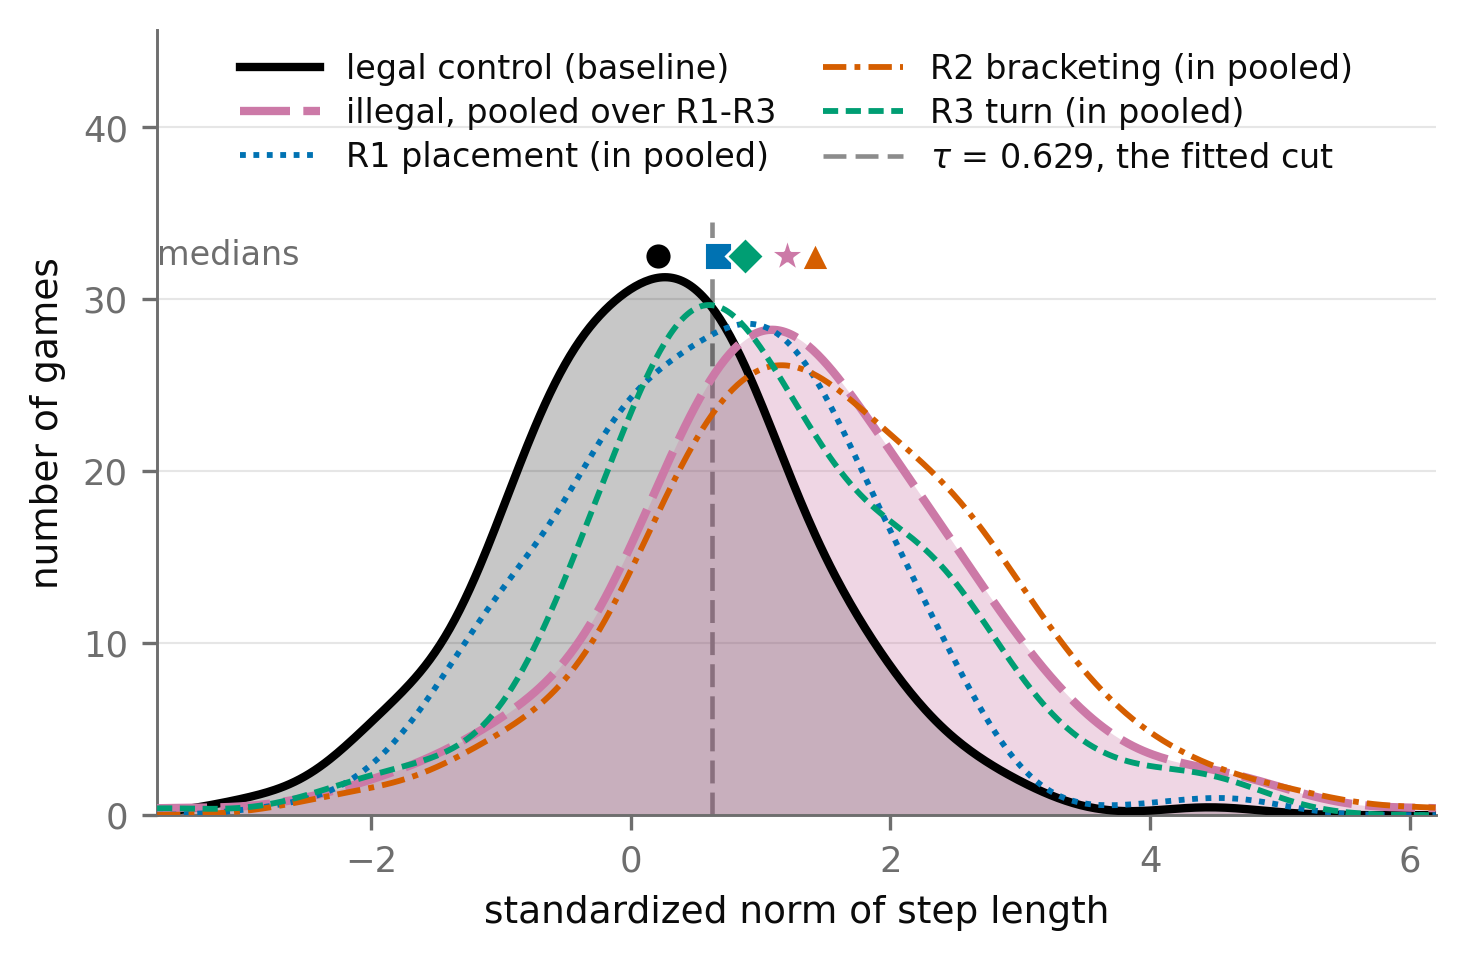
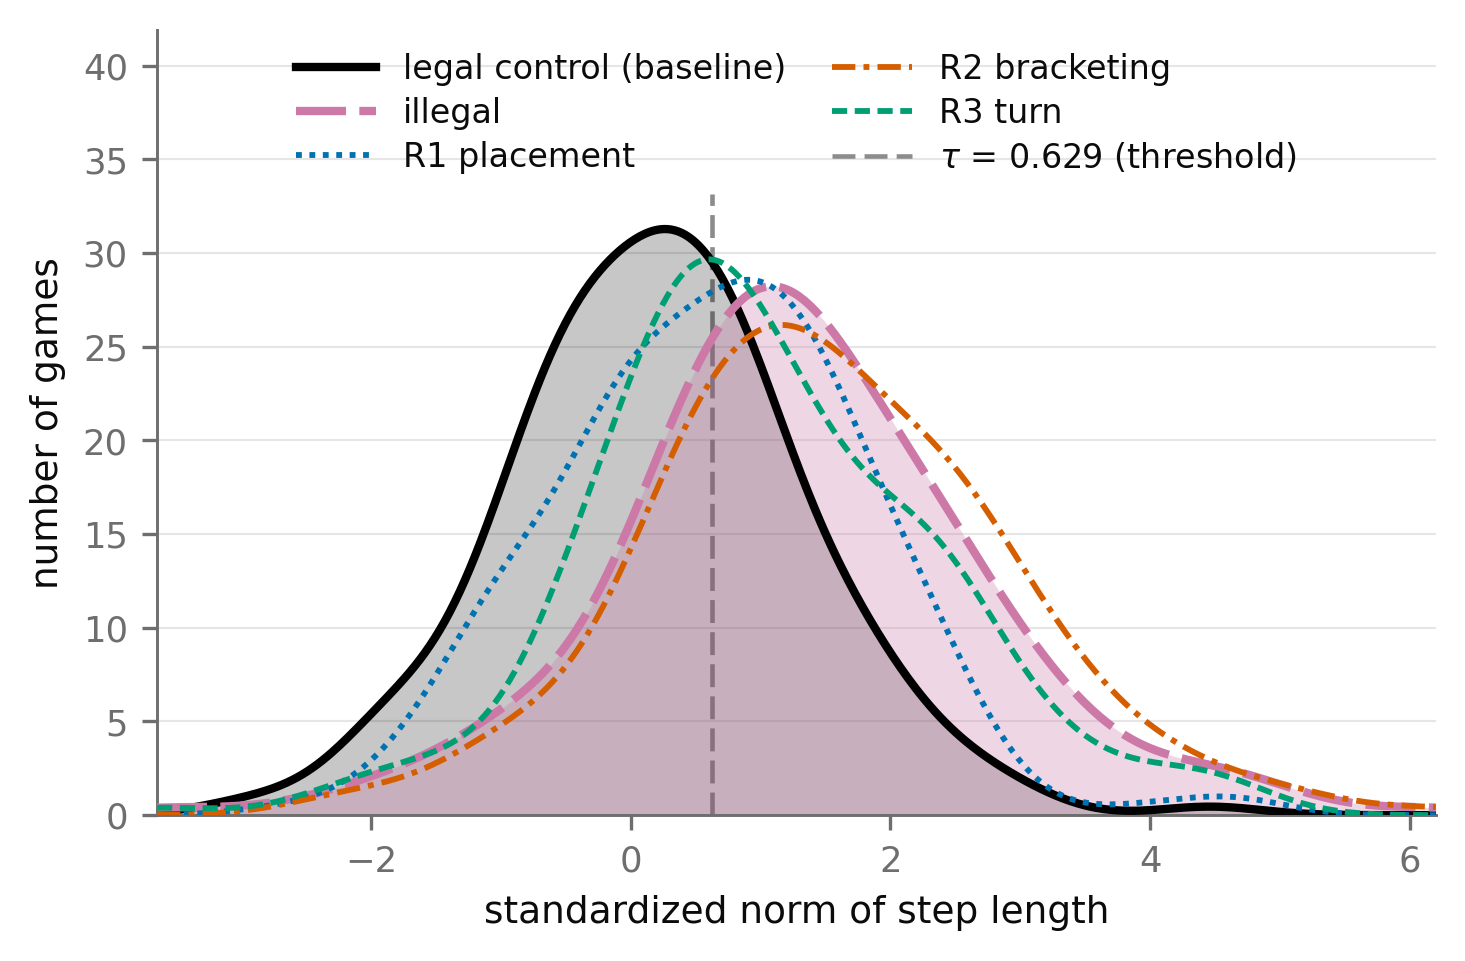
score_histograms: plainer legend, no median strip
Series names drop "pooled over R1-R3" and "(in pooled)", tau reads
"(threshold)", and the median markers and their "medians" label are off the
canvas -- hue and dash carry the five series now. The medians stay in
results/score_histograms.csv.

diff --git a/analysis/violation_divergence/illegal_move_detector/figure_histograms.py b/analysis/violation_divergence/illegal_move_detector/figure_histograms.py
@@ -39,7 +39,7 @@ from matplotlib import pyplot as plt
 import detector
 from changepoint import ci, resamples
 from spade.figures.paper_style import (
-    DIRECTION_STYLE, GENERATION_STYLE, MUTED, NULL, RULE_STYLE, apply_style, save_figure)
+    GENERATION_STYLE, NULL, RULE_STYLE, apply_style, save_figure)
 from spade.figures.straightness_panels import kde_ci
 
 FIGURES = Path(__file__).resolve().parent / "figures"
@@ -52,23 +52,16 @@ ARM_OF = {"legal": "control", "illegal": "illegal", "R1": "R1", "R2": "R2", "R3"
 # Hue: the rules taxonomy for legal and R1-R3; GENERATION_STYLE's aggregate hue for the pooled
 # arm, the one hue in the palette that already means "any illegal move, over R1-R3" and the
 # only one that collides with neither a rule nor REFERENCE's black.
-# Marker: DIRECTION_STYLE, the only dict keyed on exactly these five names, so no two series
-# share a shape on the median strip. GENERATION_STYLE's own marker is `o`, which is legal's.
-STYLE = {k: {"color": hue["color"], "marker": DIRECTION_STYLE[k]["marker"]}
-         for k, hue in [("legal", RULE_STYLE["legal"]),
-                        ("illegal", GENERATION_STYLE["mass"]),
-                        ("R1", RULE_STYLE["R1 placement"]),
-                        ("R2", RULE_STYLE["R2 bracketing"]),
-                        ("R3", RULE_STYLE["R3 turn"])]}
-# Five curves cannot separate by hue in grayscale and neither dict carries a line style, so
-# the dash is the second cue and the median markers are the third.
+COLOR = {"legal": RULE_STYLE["legal"]["color"],
+         "illegal": GENERATION_STYLE["mass"]["color"],
+         "R1": RULE_STYLE["R1 placement"]["color"],
+         "R2": RULE_STYLE["R2 bracketing"]["color"],
+         "R3": RULE_STYLE["R3 turn"]["color"]}
+# Five curves cannot separate by hue in grayscale, so the dash carries them there.
 DASH = {"legal": "-", "illegal": (0, (6, 1.6)), "R1": (0, (1, 1.3)),
         "R2": (0, (4, 1.4, 1, 1.4)), "R3": (0, (2.6, 1.3))}
-LABEL = {"legal": "legal control (baseline)",
-         "illegal": "illegal, pooled over R1-R3",
-         "R1": "R1 placement (in pooled)",
-         "R2": "R2 bracketing (in pooled)",
-         "R3": "R3 turn (in pooled)"}
+LABEL = {"legal": "legal control (baseline)", "illegal": "illegal",
+         "R1": "R1 placement", "R2": "R2 bracketing", "R3": "R3 turn"}
 # Five fills at one alpha is mud and unreadable in grayscale (FIGURE_GUIDELINES 4.4), so the
 # fill is spent on the contrast the panel is about -- baseline against pooled illegal -- and
 # the pooled arm's three components ride on their lines over a light wash.
@@ -108,22 +101,17 @@ def draw(x: dict[str, np.ndarray], tau: float, camera_ready: bool) -> Path:
     ax.grid(False, axis="x")
     top = 0.0
     for i, k in enumerate(SERIES):
-        color = STYLE[k]["color"]
         curve = kde_ci(x[k], grid)[0] * len(x[k]) * slice_width
         if FILL[k]:
-            ax.fill_between(grid, curve, color=color, alpha=FILL[k], lw=0, zorder=2)
-        ax.plot(grid, curve, color=color, ls=DASH[k], lw=LINE[k], zorder=3 + i, label=LABEL[k])
+            ax.fill_between(grid, curve, color=COLOR[k], alpha=FILL[k], lw=0, zorder=2)
+        ax.plot(grid, curve, color=COLOR[k], ls=DASH[k], lw=LINE[k], zorder=3 + i,
+                label=LABEL[k])
         top = max(top, curve.max())
 
-    strip, ceiling = top * 1.04, top * 1.46
-    for k in SERIES:
-        ax.plot(np.median(x[k]), strip, ls="none", marker=STYLE[k]["marker"],
-                color=STYLE[k]["color"], ms=9 if STYLE[k]["marker"] == "*" else 6.5,
-                mec="white", mew=0.7, zorder=9)
-    ax.text(grid[0], strip, "medians ", ha="left", va="center", fontsize=8.0, color=MUTED)
-    # Stopped just above the median strip: a full-height line runs through the legend.
-    ax.axvline(tau, ymax=strip * 1.06 / ceiling, color=NULL["color"], ls=NULL["ls"], lw=1.1,
-               zorder=1, label=f"$\\tau$ = {tau:.3f}, the fitted cut")
+    ceiling = top * 1.34
+    # Stopped below the legend: a full-height line runs through it.
+    ax.axvline(tau, ymax=top * 1.06 / ceiling, color=NULL["color"], ls=NULL["ls"], lw=1.1,
+               zorder=1, label=f"$\\tau$ = {tau:.3f} (threshold)")
 
     ax.set_xlim(grid[0], grid[-1])
     ax.set_ylim(0, ceiling)
